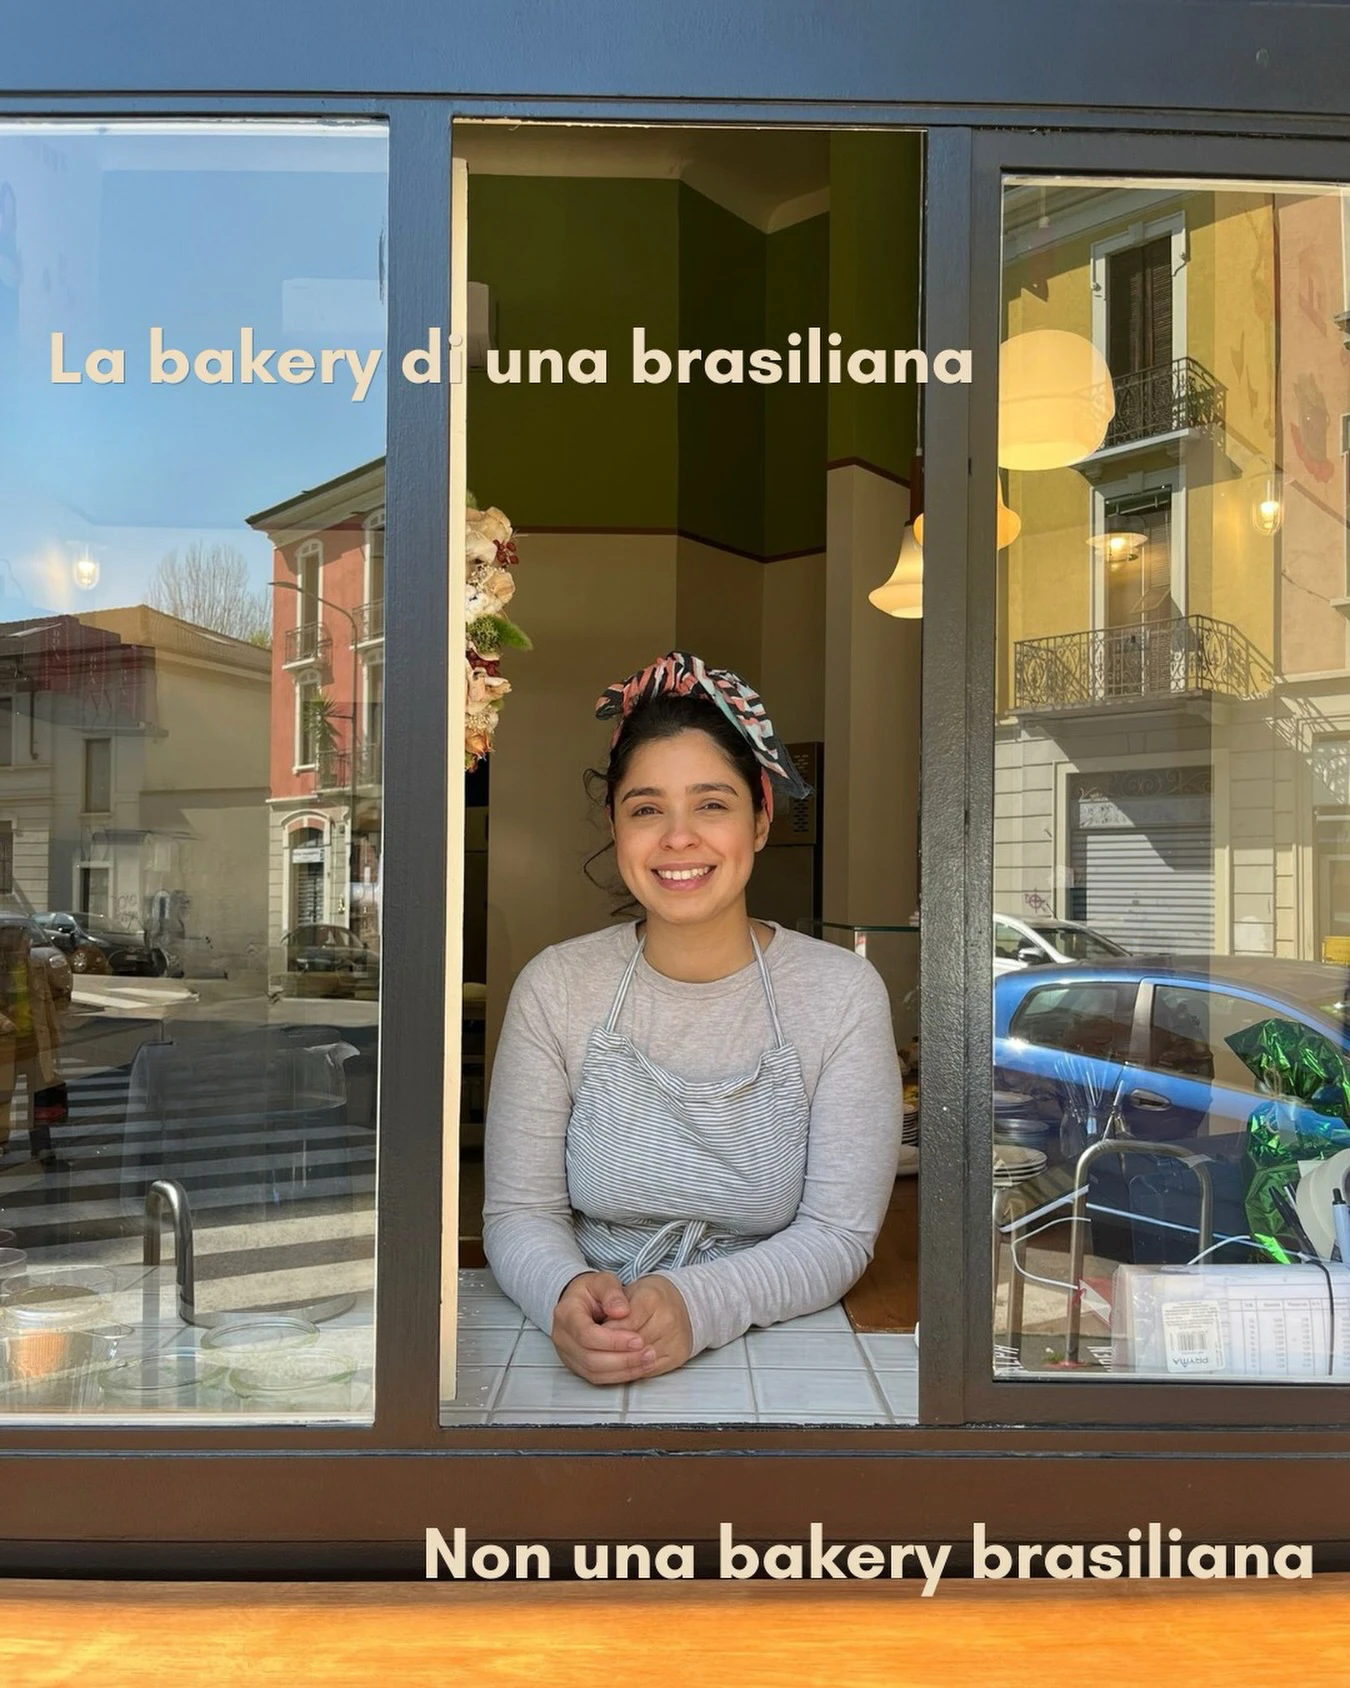
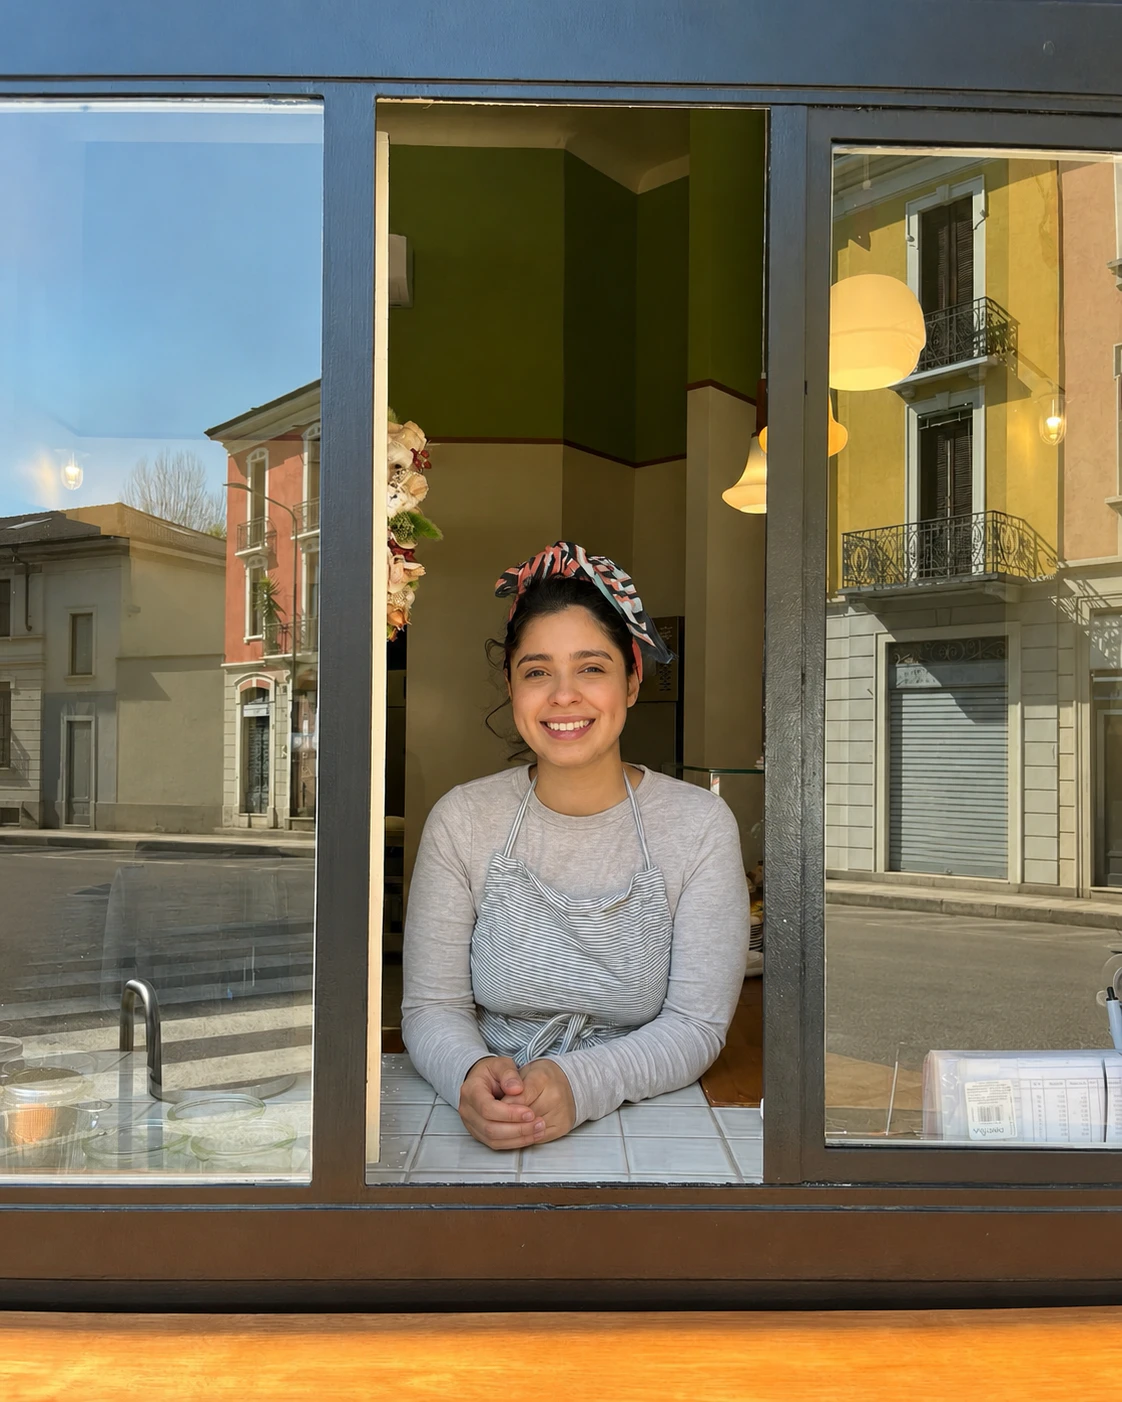
Modifica immagine, titolo e grassetti

diff --git a/src/lib/doca-i18n.ts b/src/lib/doca-i18n.ts
@@ -3,8 +3,17 @@ import { createTenantI18n } from "@/lib/tenant-i18n";
 const translations = {
   it: {
     languageLabel: "Lingua",
+    heroPayoff: "PANE ⋆ CAFFÈ ⋆ SAUDADE",
     heroBody:
       "Bakery di una brasiliana di quartiere a Milano Corvetto, uno spazio dove tradizioni diverse si incontrano. Un luogo che parla di viaggio, contaminazione e quartiere. Dove magari ritrovate un ricordo… o ne create uno nuovo.",
+    heroBodyParts: [
+      { text: "Bakery di una brasiliana di quartiere" },
+      { text: " a Milano Corvetto, uno spazio dove " },
+      { text: "tradizioni diverse si incontrano", bold: true },
+      { text: ". Un luogo che parla di " },
+      { text: "viaggio, contaminazione e quartiere", bold: true },
+      { text: ". Dove magari ritrovate un ricordo… o ne create uno nuovo." },
+    ],
     reserve: "Prenota ora",
     reserveHere: "Prenota qui",
     menu: "Scopri tutto il menu",
@@ -39,8 +48,16 @@ const translations = {
     hours: "Orari",
     maps: "Apri in Google Maps",
     closed: "Chiuso",
-    footerTagline: "Pane, caffè, saudade.",
+    footerTagline: "PANE ⋆ CAFFÈ ⋆ SAUDADE",
     footerBody: "Bakery di una brasiliana di quartiere fondata da Queren Girardi a Milano Corvetto. Pane, caffè filtro e dolci brasiliani sotto lo stesso tetto.",
+    footerBodyParts: [
+      { text: "Bakery di una brasiliana di quartiere", bold: true },
+      { text: " fondata da " },
+      { text: "Queren Girardi", bold: true },
+      { text: " a Milano Corvetto. " },
+      { text: "Pane, caffè filtro e dolci brasiliani", bold: true },
+      { text: " sotto lo stesso tetto." },
+    ],
     footerLocation: "Dove siamo",
     footerHours: "Orari",
     whatsappFooter: "Prenota qui ->",
@@ -50,8 +67,17 @@ const translations = {
   },
   pt: {
     languageLabel: "Idioma",
+    heroPayoff: "PÃO ⋆ CAFÉ ⋆ SAUDADE",
     heroBody:
       "Padaria de bairro de uma brasileira em Milano Corvetto, um espaço onde tradições diferentes se encontram. Um lugar que fala de viagem, mistura e vizinhança. Onde você pode reencontrar uma lembrança… ou criar uma nova.",
+    heroBodyParts: [
+      { text: "Padaria de bairro de uma brasileira" },
+      { text: " em Milano Corvetto, um espaço onde " },
+      { text: "tradições diferentes se encontram", bold: true },
+      { text: ". Um lugar que fala de " },
+      { text: "viagem, mistura e vizinhança", bold: true },
+      { text: ". Onde você pode reencontrar uma lembrança… ou criar uma nova." },
+    ],
     reserve: "Reserve agora",
     reserveHere: "Reserve aqui",
     menu: "Veja o menu completo",
@@ -86,8 +112,16 @@ const translations = {
     hours: "Horários",
     maps: "Abrir no Google Maps",
     closed: "Fechado",
-    footerTagline: "Pão, café, saudade.",
+    footerTagline: "PÃO ⋆ CAFÉ ⋆ SAUDADE",
     footerBody: "Padaria de bairro de uma brasileira fundada por Queren Girardi em Milano Corvetto. Pão, café coado e doces brasileiros sob o mesmo teto.",
+    footerBodyParts: [
+      { text: "Padaria de bairro de uma brasileira", bold: true },
+      { text: " fundada por " },
+      { text: "Queren Girardi", bold: true },
+      { text: " em Milano Corvetto. " },
+      { text: "Pão, café coado e doces brasileiros", bold: true },
+      { text: " sob o mesmo teto." },
+    ],
     footerLocation: "Onde estamos",
     footerHours: "Horários",
     whatsappFooter: "Reserve aqui ->",
@@ -97,8 +131,17 @@ const translations = {
   },
   en: {
     languageLabel: "Language",
+    heroPayoff: "BREAD ⋆ COFFEE ⋆ SAUDADE",
     heroBody:
       "A Brazilian neighborhood bakery in Milan's Corvetto district, where different traditions meet. A place shaped by travel, exchange and community. Somewhere to find an old memory, or make a new one.",
+    heroBodyParts: [
+      { text: "A Brazilian neighborhood bakery" },
+      { text: " in Milan's Corvetto district, where " },
+      { text: "different traditions meet", bold: true },
+      { text: ". A place shaped by " },
+      { text: "travel, exchange and community", bold: true },
+      { text: ". Somewhere to find an old memory, or make a new one." },
+    ],
     reserve: "Book now",
     reserveHere: "Book here",
     menu: "Explore the full menu",
@@ -133,8 +176,16 @@ const translations = {
     hours: "Hours",
     maps: "Open in Google Maps",
     closed: "Closed",
-    footerTagline: "Bread, coffee, saudade.",
+    footerTagline: "BREAD ⋆ COFFEE ⋆ SAUDADE",
     footerBody: "A Brazilian neighborhood bakery founded by Queren Girardi in Milan's Corvetto district. Bread, filter coffee and Brazilian cakes under one roof.",
+    footerBodyParts: [
+      { text: "A Brazilian neighborhood bakery", bold: true },
+      { text: " founded by " },
+      { text: "Queren Girardi", bold: true },
+      { text: " in Milan's Corvetto district. " },
+      { text: "Bread, filter coffee and Brazilian cakes", bold: true },
+      { text: " under one roof." },
+    ],
     footerLocation: "Find us",
     footerHours: "Hours",
     whatsappFooter: "Book here ->",

diff --git a/src/styles/tenants/doca.css b/src/styles/tenants/doca.css
@@ -102,6 +102,14 @@
     min-width: 0;
   }
 
+  [data-tenant-surface="doca"] .doca-logo-stack {
+    position: relative;
+    display: inline-block;
+    width: max-content;
+    max-width: 100%;
+    padding-bottom: 1.95rem;
+  }
+
   [data-tenant-surface="doca"] .doca-logo-word {
     width: max-content;
     max-width: 100%;
@@ -125,24 +133,55 @@
   }
 
   [data-tenant-surface="doca"] .doca-hero-title {
-    margin-top: 0.7rem;
-    font-family: var(--doca-font-display);
-    font-size: clamp(1.45rem, 2.8vw, 2.65rem);
-    font-weight: 760;
-    line-height: 1.06;
+    position: absolute;
+    top: calc(100% - 1.35rem);
+    left: 0;
+    width: 100%;
+    margin-top: 0;
+    font-family: var(--doca-font-body);
+    font-size: clamp(0.82rem, 1.18vw, 1.05rem);
+    font-weight: 950;
+    line-height: 1.15;
     letter-spacing: 0;
     color: var(--doca-red);
+    text-align: center;
     white-space: nowrap;
   }
 
   [data-tenant-surface="doca"] .doca-hero-text {
     max-width: 34rem;
-    margin-top: 1.4rem;
+    margin-top: 1.2rem;
     color: var(--doca-muted);
     font-size: clamp(1.05rem, 1.5vw, 1.28rem);
     line-height: 1.62;
     text-wrap: pretty;
     overflow-wrap: anywhere;
+  }
+
+  [data-tenant-surface="doca"] .doca-hero-text strong,
+  [data-tenant-surface="doca"] footer strong {
+    color: var(--doca-red-deep);
+    font-weight: 900;
+  }
+
+  [data-tenant-surface="doca"] .doca-footer-tagline {
+    position: absolute;
+    top: calc(100% - 0.95rem);
+    left: 0;
+    width: 100%;
+    font-weight: 900;
+    font-size: 0.62rem;
+    line-height: 1.15;
+    text-align: center;
+    white-space: nowrap;
+  }
+
+  [data-tenant-surface="doca"] .doca-footer-logo-stack {
+    position: relative;
+    display: inline-block;
+    width: max-content;
+    max-width: 100%;
+    padding-bottom: 1.15rem;
   }
 
   [data-tenant-surface="doca"] .doca-hero-actions {
@@ -478,12 +517,10 @@
 
     [data-tenant-surface="doca"] .doca-logo-word {
       font-size: clamp(4rem, 19vw, 6.5rem);
-      width: 100%;
     }
 
     [data-tenant-surface="doca"] .doca-hero-title {
-      font-size: clamp(1.28rem, 7vw, 1.8rem);
-      white-space: normal;
+      font-size: clamp(0.72rem, 3.3vw, 0.88rem);
     }
 
     [data-tenant-surface="doca"] .doca-hero-copy {

diff --git a/src/components/tenants/_shared/hero.tsx b/src/components/tenants/_shared/hero.tsx
@@ -13,6 +13,17 @@ import { useDocaCopy } from "@/lib/doca-i18n";
 import { DocaLanguageSelector } from "@/components/tenants/doca/doca-language-selector";
 import { useTenantLocalizedHref } from "@/lib/use-tenant-localized-href";
 
+type RichTextPart = {
+  text: string;
+  bold?: boolean;
+};
+
+function renderRichText(parts: readonly RichTextPart[]) {
+  return parts.map((part, index) =>
+    part.bold ? <strong key={index}>{part.text}</strong> : <span key={index}>{part.text}</span>,
+  );
+}
+
 export function Hero() {
   const reduceMotion = useReducedMotion();
   const tenant = useTenant();
@@ -54,12 +65,14 @@ export function Hero() {
               transition={reduceMotion ? { duration: 0 } : { duration: 0.7, ease: "easeOut" }}
               className="doca-hero-copy"
             >
-              <h1 className="doca-logo-word" aria-label="Doca">
-                DOCA
-              </h1>
-              <p className="doca-hero-title">Pane, caffè e saudade.</p>
+              <div className="doca-logo-stack">
+                <h1 className="doca-logo-word" aria-label="Doca">
+                  DOCA
+                </h1>
+                <p className="doca-hero-title">{docaCopy.heroPayoff}</p>
+              </div>
               <p className="doca-hero-text">
-                {docaCopy.heroBody}
+                {renderRichText(docaCopy.heroBodyParts)}
               </p>
               <div className="doca-hero-actions">
                 <Link href={reservationHref} className="doca-button doca-button-primary">

diff --git a/src/components/tenant-shell/footer.tsx b/src/components/tenant-shell/footer.tsx
@@ -40,9 +40,14 @@ import { getTenantLocaleConfig, matchTenantLocale } from "@/lib/tenant-locales";
 import { useSettingsStore } from "@/store/settings-store";
 import {
   EMPTY_SOCIAL_LINKS,
-  type SocialLinkKey,
+type SocialLinkKey,
   type SocialLinks,
 } from "@/store/settings-store";
+
+type RichTextPart = {
+  text: string;
+  bold?: boolean;
+};
 
 const SOCIAL_ITEMS: Array<{
   key: SocialLinkKey;
@@ -75,6 +80,12 @@ function isTenantHomePath(pathname: string | null, tenantId: string, previewSlug
 
 function mailtoHref(email: string, subject: string) {
   return `mailto:${email}?subject=${encodeURIComponent(subject)}`;
+}
+
+function renderRichText(parts: readonly RichTextPart[]) {
+  return parts.map((part, index) =>
+    part.bold ? <strong key={index}>{part.text}</strong> : <span key={index}>{part.text}</span>,
+  );
 }
 
 function defaultSocialLinks(content: ReturnType<typeof getTenantContent>): SocialLinks {
@@ -147,15 +158,15 @@ export function Footer() {
               unoptimized
               className="h-16 w-16 object-contain"
             />
-            <div>
-              <p className="impact-title text-3xl text-pork-mustard">{tenant.name}</p>
-              <p className="text-sm text-pork-cream/70">
+            <div className={isDoca ? "doca-footer-logo-stack" : ""}>
+              <p className="impact-title text-3xl text-pork-mustard">{isDoca ? "DOCA" : tenant.name}</p>
+              <p className={`text-sm text-pork-cream/70 ${isDoca ? "doca-footer-tagline" : ""}`}>
                 {isDoca ? docaCopy.footerTagline : content.footer.tagline}
               </p>
             </div>
           </div>
           <p className="mt-6 max-w-md text-pork-cream/70">
-            {isDoca ? docaCopy.footerBody : content.footer.body}
+            {isDoca ? renderRichText(docaCopy.footerBodyParts) : content.footer.body}
           </p>
         </div>
 